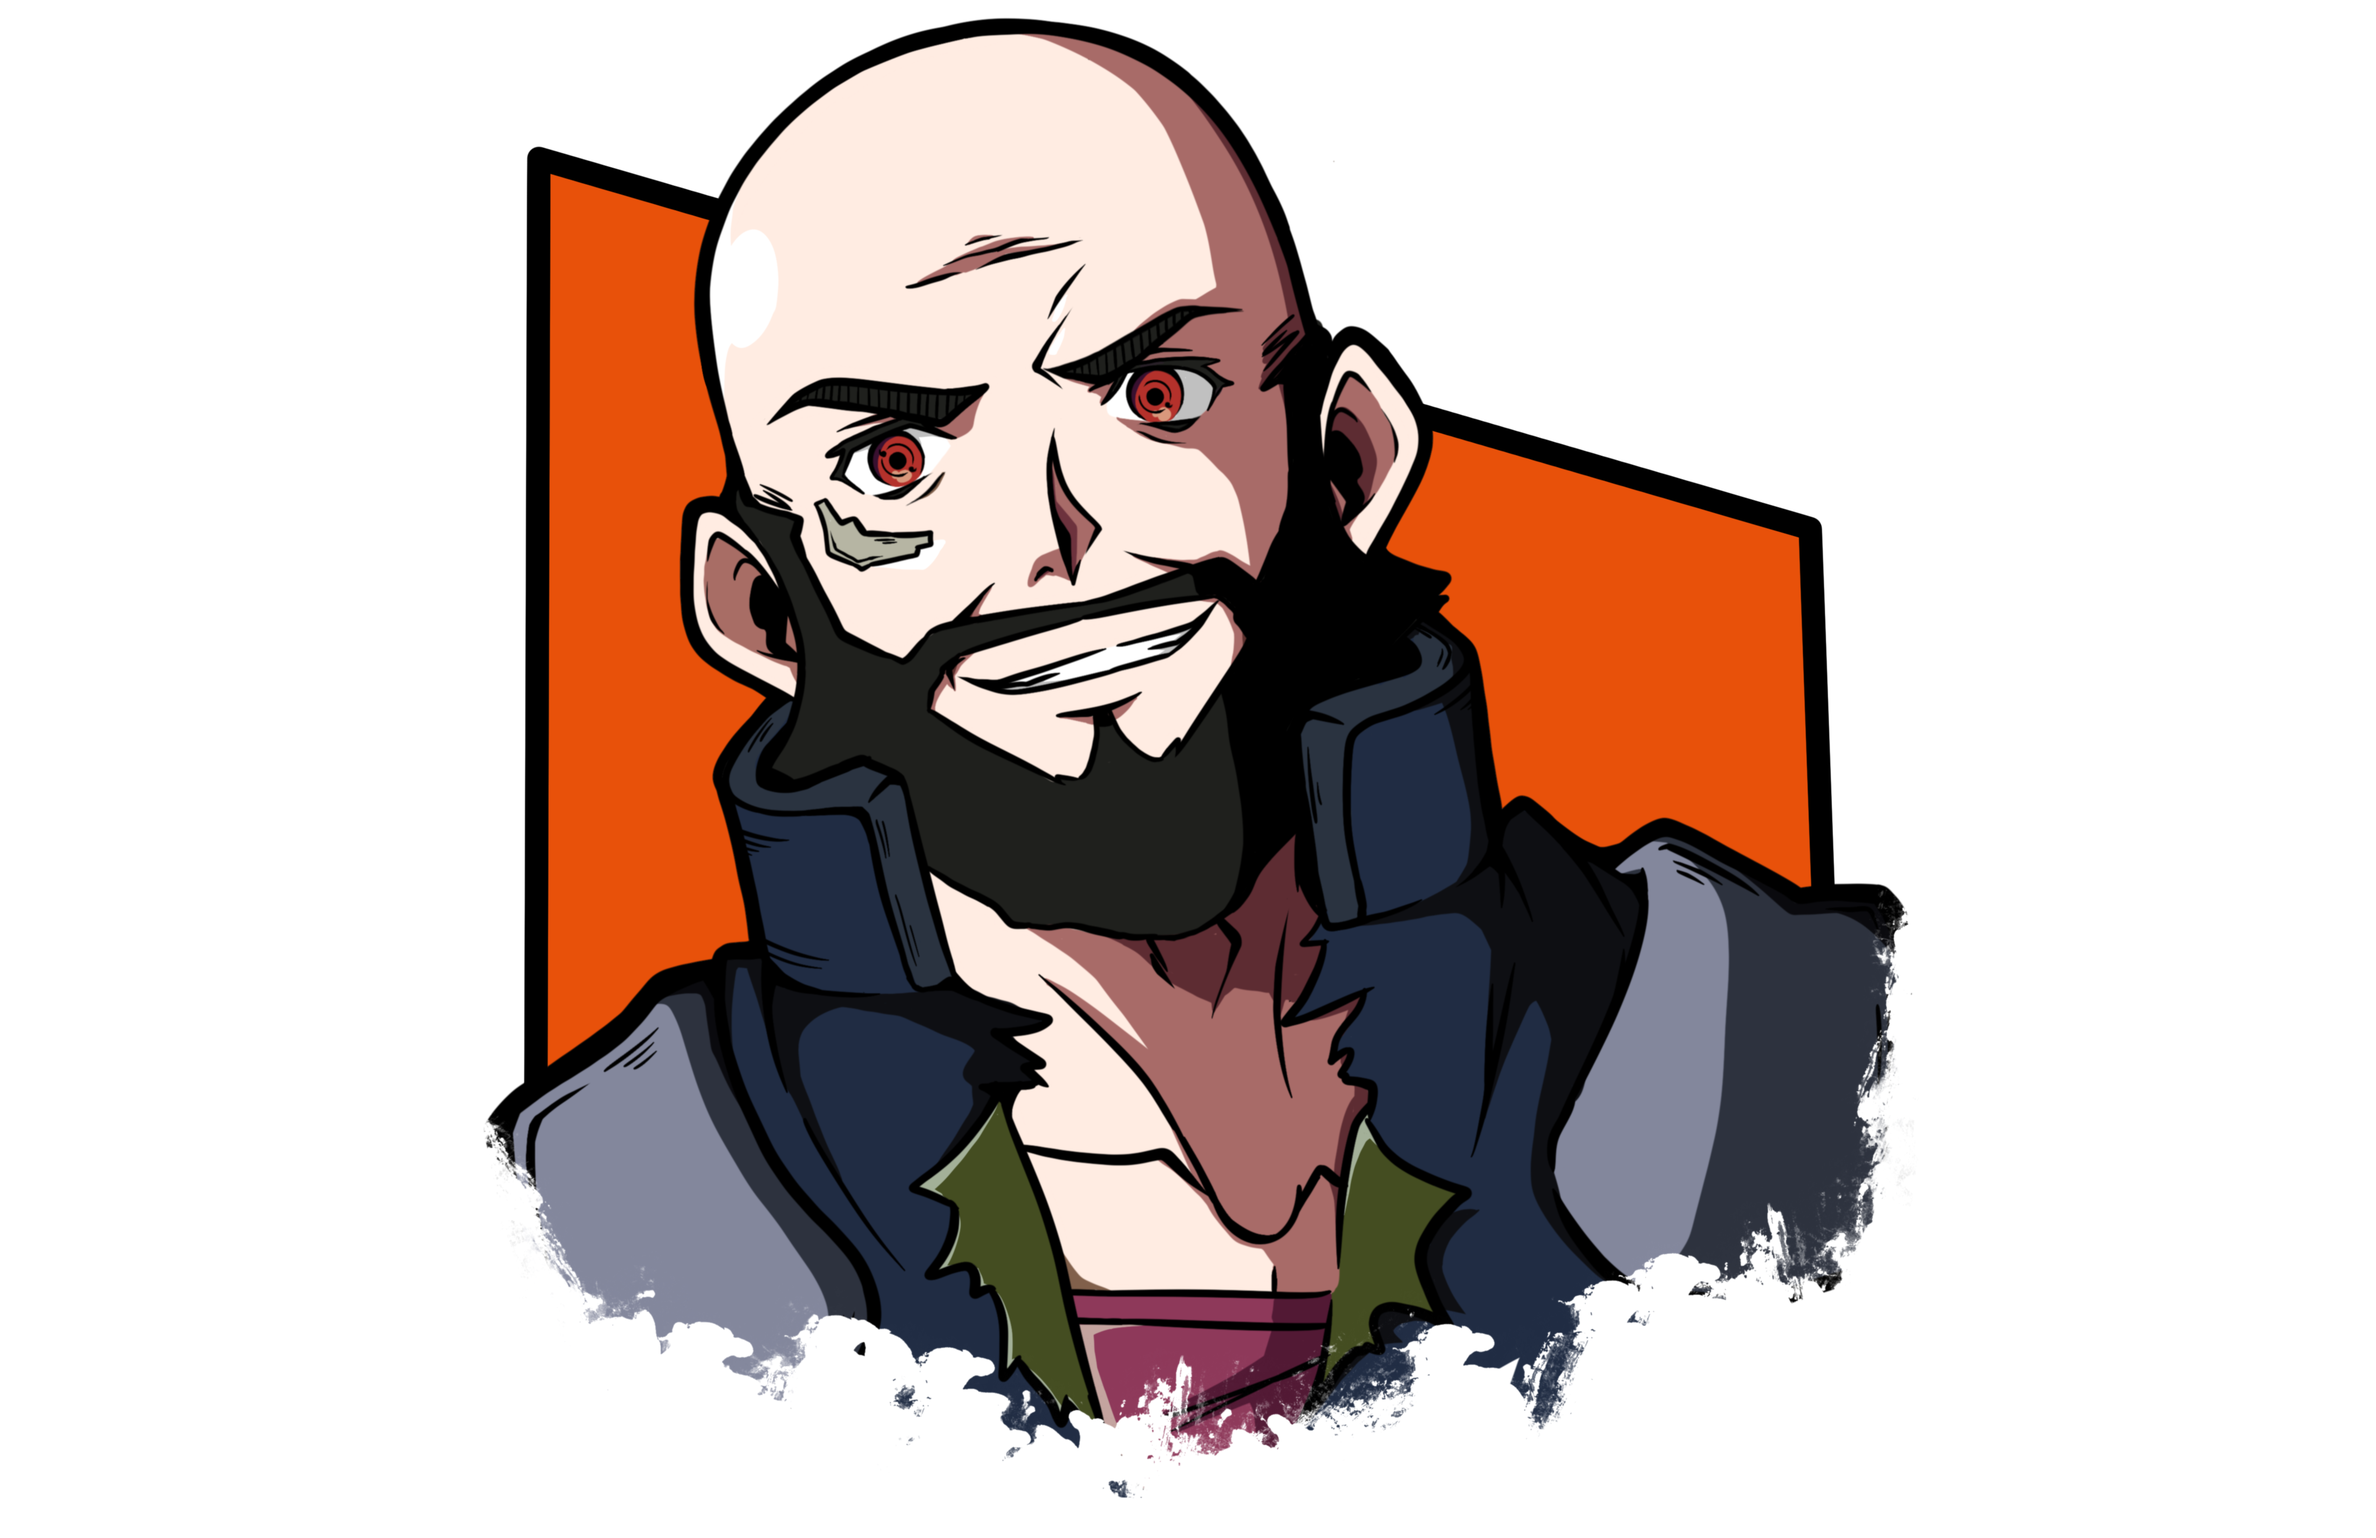
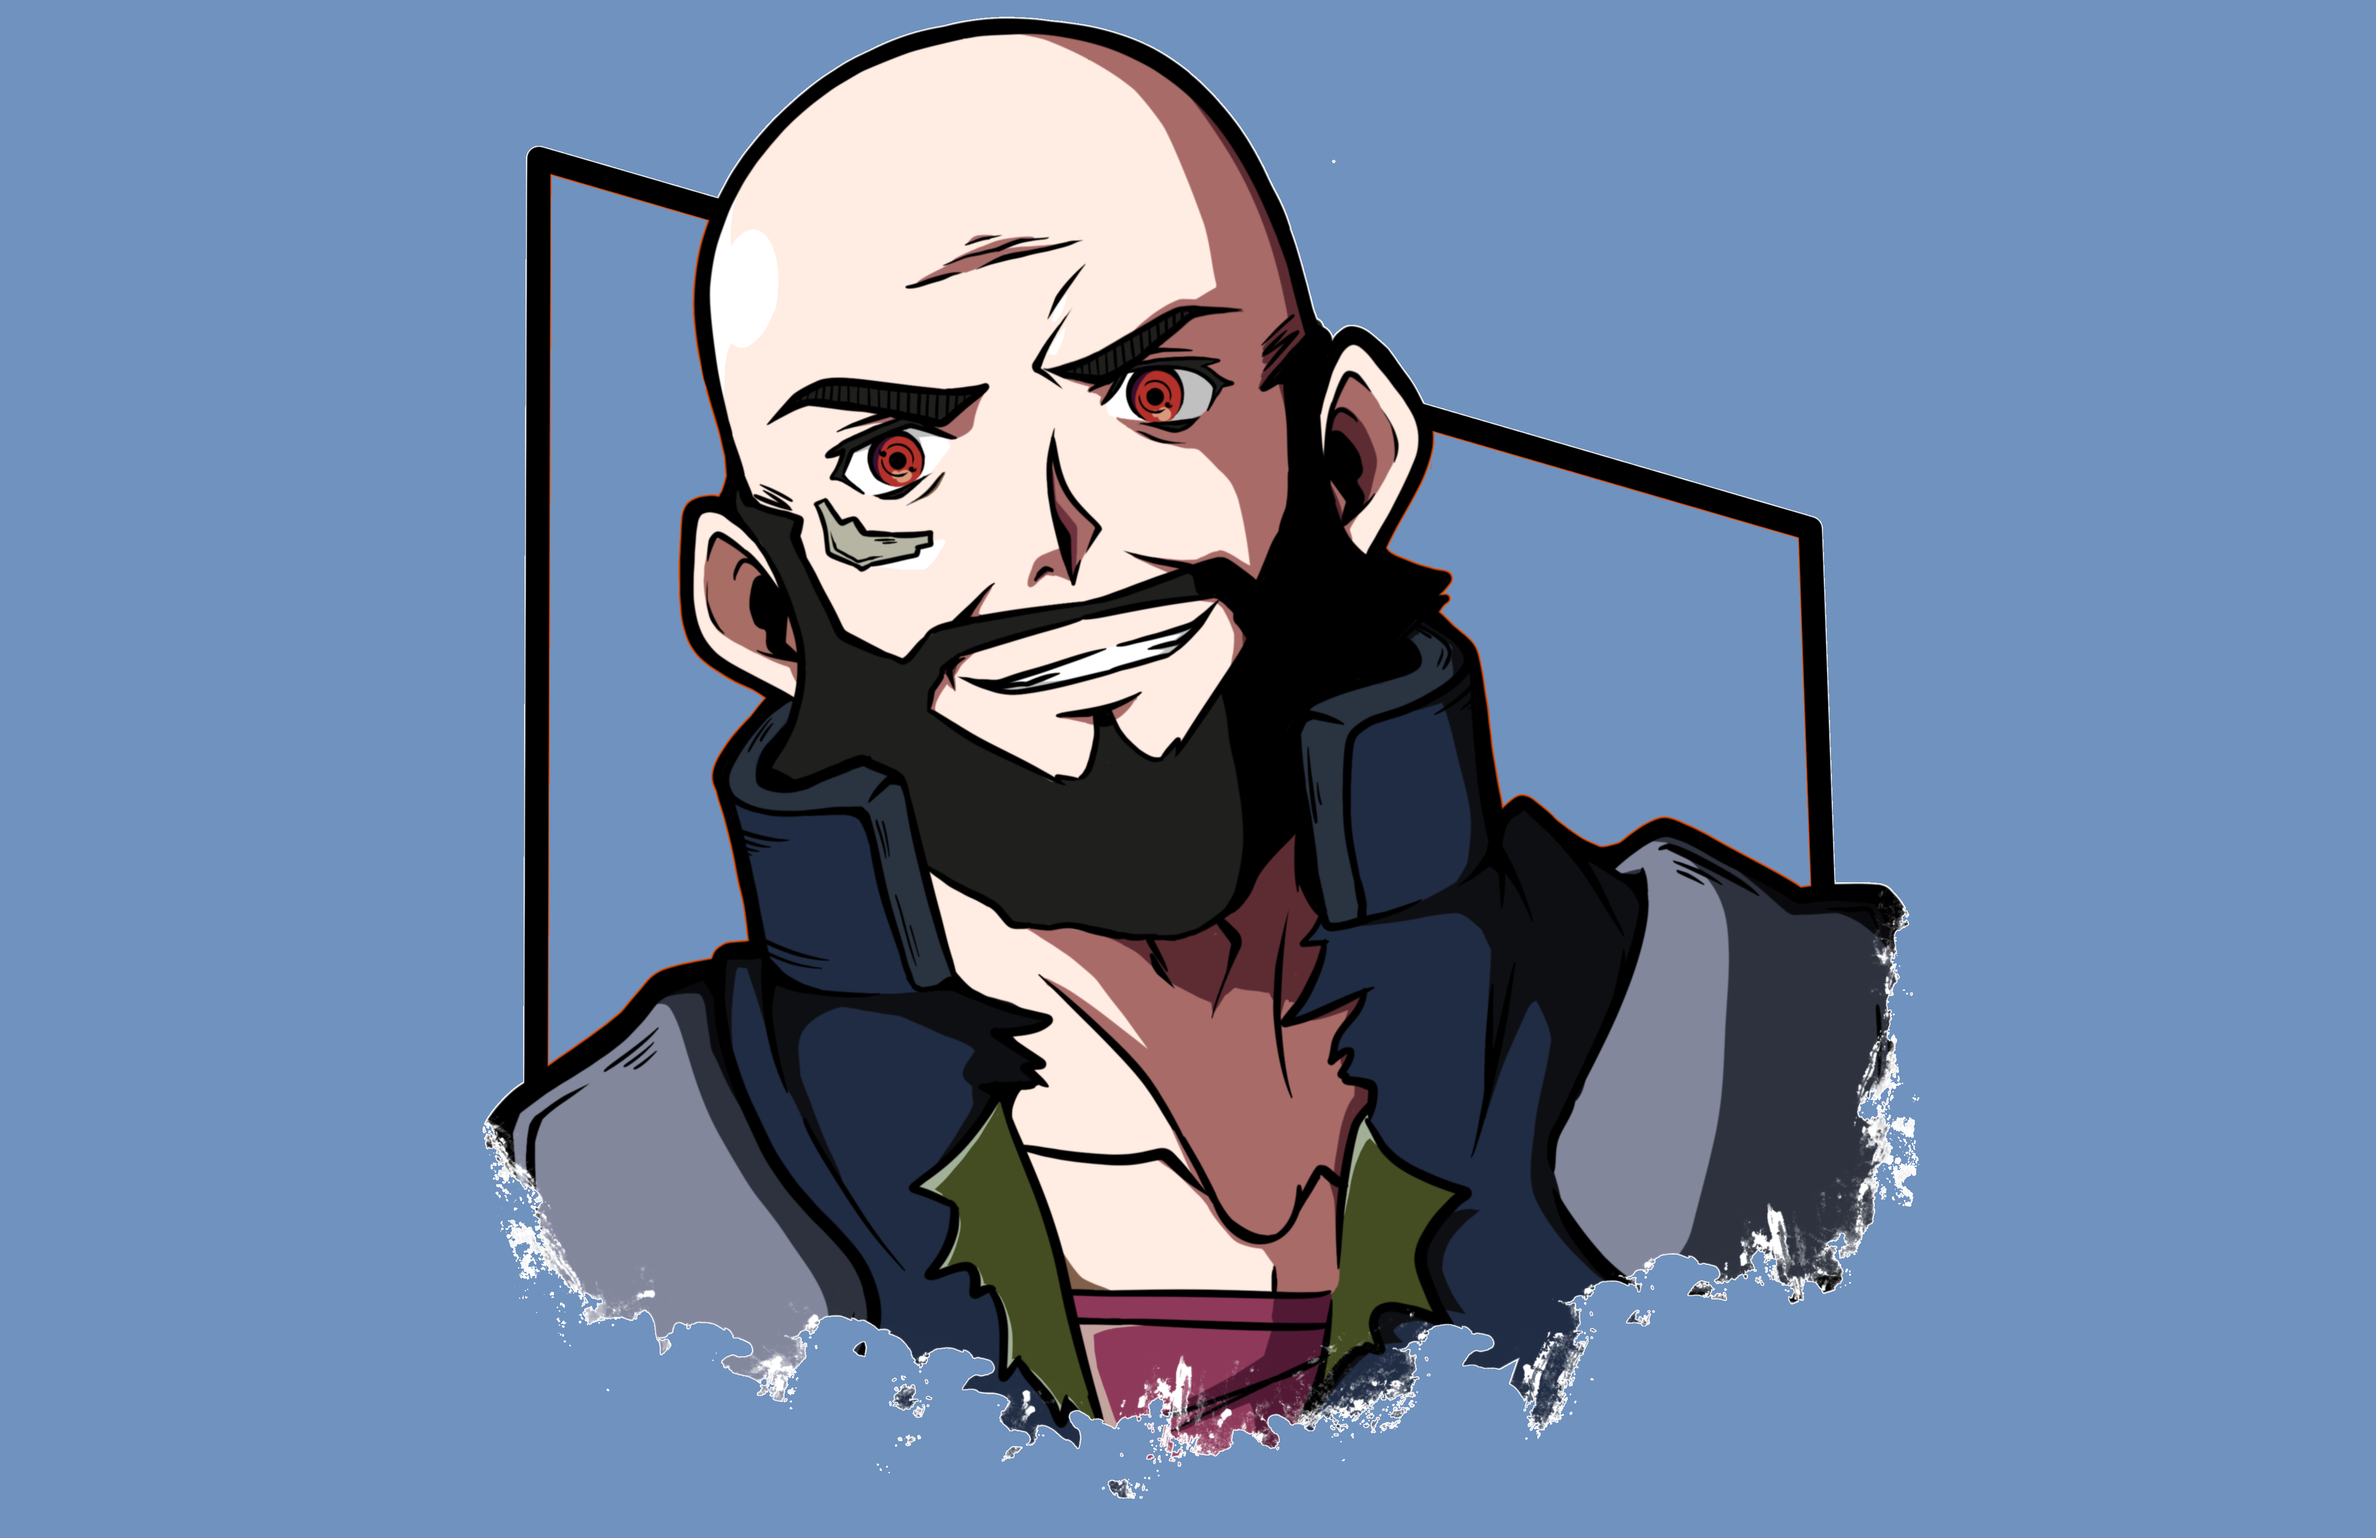
redesign portfolio

diff --git a/index.html b/index.html
@@ -7,18 +7,20 @@
     <link rel="stylesheet" href="./assets/style.css" />
     <title>Brian</title>
   </head>
+
   <body>
     <header>
-      <img src="./assets/images/avatar.PNG" alt="brian wood anime pic">
-      <h1><a href="/"></a> Brian Wood</h1>
+      <h1><a href="/"></a>Brian Wood</h1>
+
       <nav>
         <ul>
-          <li>About Me</li>
-          <li>My Projects</li>
-          <li>Contact</li>
+          <li><a href="#about me"></a> About Me</li>
+          <li><a href="my-projects"></a> My Projects</li>
+          <li><a href="contact"></a> Contact</li>
         </ul>
       </nav>
     </header>
+
     <section class="hero">
       <div class="hero-txt">
         <p>
@@ -34,34 +36,55 @@
         </p>
       </div>
     </section>
-    
-    <article class="main">
-        <section class="about">
-          <h2>About Me</h2>
-          <p>info and stuff</p>
-        </section>
+
+    <section class="main">
+      <section class="about">
+        <h2>About Me</h2>
+        <p>
+          Brian has recently set out on his journey to be the greatest web
+          developer there has ever been. The very best... Like no one ever was.
+          Check back soon to see his progress as he adds more projects and
+          develops his skills
+        </p>
+      </section>
+
+      <section class="my-projects">
+        <h2>My Projects</h2>
+        <article class="projects-examples">
+          <div>
+            <h3>Run Buddy</h3>
+            <p>Run Buddy, my first project. Run Buddy helped me develop my skills with HTML and CSS. click the picture to check it out.</p>
+            <a href="https://woodb58.github.io/run-buddy/">
+            <img src="./assets/images/run-buddy.png" alt="picture of run buddy banner with link to run buddy website">
+          </a>
+          </div>
+        </article>
+        <article>
+          <div>
+            <h3>Future Projects</h3>
+            <p>More Projects Coming Soon. Please check back often to see my progress.</p>
+            <p>link to construction pic</p>
+            <img src="./assets/images/construction.png" alt="picture of a construction sign">
+            
+          </div>
+        </article>
+      </section>
   
-        <section class="work">
-          <h2>Work</h2>
-          <p>Links to projects</p>
-        </section>
-  
-        <section class="contact">
-          <h2>Contact</h2>
-          <p class="contact">
-            <a href="https://github.com/woodb58">GitHub: woodb58</a>
-          </p>
-           <p class="contact">
-              <a href="mailto: woodb58@gmail.com">Email Inquiries: woodb58@gmail.com</a>
-            </p>
-            <p class="contact">
-              <a href="tel:5559147894">Call Me: 555-914-7894</a>
-            </p>
-          </section>
-   
-    </article>
-    <footer>
-      <h3>maybe a footer maybe ill use for contact info but still a footer</h3>
+
+    <footer class="contact">
+      <h2>Contact:</h2>
+      <p class="contact">
+        <a href="https://github.com/woodb58">GitHub: woodb58</a>
+      </p>
+
+      <p class="contact">
+        <a href="mailto: woodb58@gmail.com"
+          >Email Inquiries: woodb58@gmail.com</a
+        >
+      </p>
+      <p class="contact">
+        <a href="tel:5559147894">Call Me: 555-914-7894</a>
+      </p>
     </footer>
   </body>
 </html>

diff --git a/assets/style.css b/assets/style.css
@@ -2,19 +2,17 @@
   --primary-color: #7996bf;
   --secondary-color: #db4e0b;
   --text: #f8f2f2;
-  --link: #4ee040;
 }
 
 * {
   box-sizing: border-box;
   margin: 0;
   padding: 0;
-  color: var(--link);
 }
 
 body {
   font-family: "Courier New", Courier, monospace;
-  background: var(--secondary-color);
+  background: var(--primary-color);
 }
 
 header {
@@ -22,24 +20,15 @@ header {
   justify-content: space-between;
   flex-wrap: wrap;
   background: var(--primary-color);
-  padding: 15px 15px;
+  padding: 10px 15px 5px 15px;
   position: sticky;
   position: -webkit-sticky;
   top: 0;
-  background-image: url(./images/hero3.jpg);
-  background-size: cover;
-  background-attachment: fixed;
-  background-position: 80%;
-}
-
-header img {
-  height: 100px;
-  width: 150px;
 }
 
 header h1 {
-  font-size: 50px;
-  padding: 30px 0 0 0
+  font-size: 45px;
+  padding: 5px 0 0 0;
 }
 
 header nav ul {
@@ -49,17 +38,11 @@ header nav ul {
   justify-content: space-between;
   list-style: none;
   font-size: 30px;
-  border-right: #4ee040;
 }
 
 header nav ul li {
   padding: 15px 15px;
   color: var(--link);
-}
-
-footer {
-  background: var(--primary-color);
-  padding: 30px;
 }
 
 .hero {
@@ -70,7 +53,6 @@ footer {
   text-align: center;
   background-position: 80%;
   padding: 100px;
- 
 }
 
 .hero p {
@@ -85,19 +67,33 @@ footer {
 }
 
 .main {
+  width: 90%;
+  display: inline-block;
+}
+
+.about,
+.my-projects {
   width: 100%;
-  margin: 0 auto;
-  display: ;
+  margin: 15px 10px 10px 20px;
+  padding: 5px 5px 5px 5px;
+  display: column;
   flex-wrap: wrap;
   justify-content: space-around;
 }
 
+.projects-examples {
+  display: flex;
+}
+
+.my-projects img {
+  height: 200px;
+  width: 300px;
+}
 
 .contact {
   display: flex;
-  flex-direction: column;
-  padding: 10px 0 5px 0;
-  margin-top: 5px;
+  flex-direction: flex;
+  justify-content: space-evenly;
 }
 
 .contact a {
